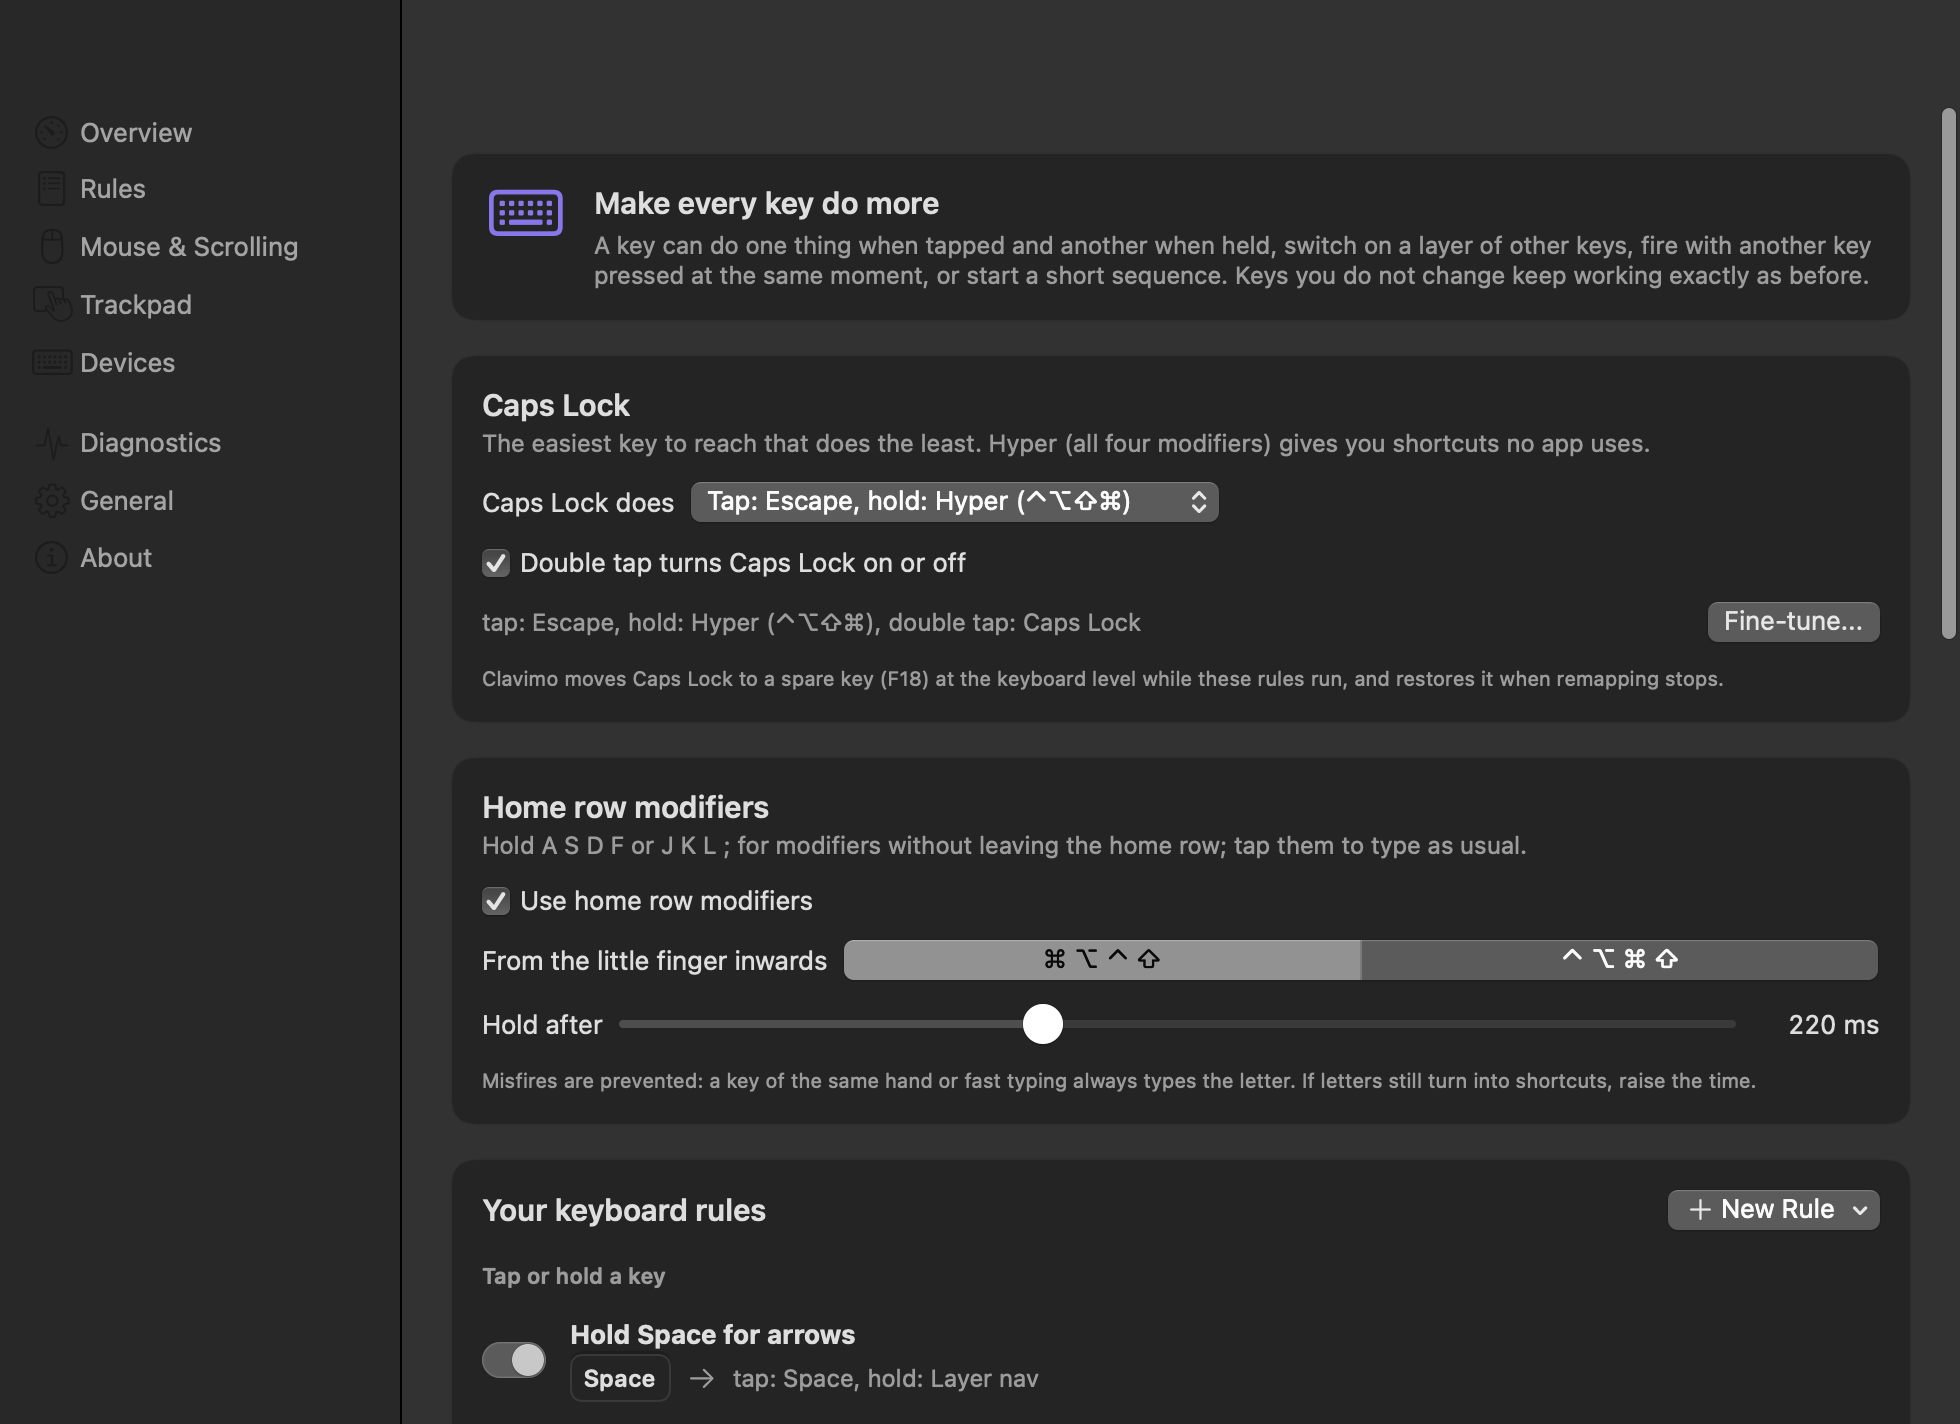
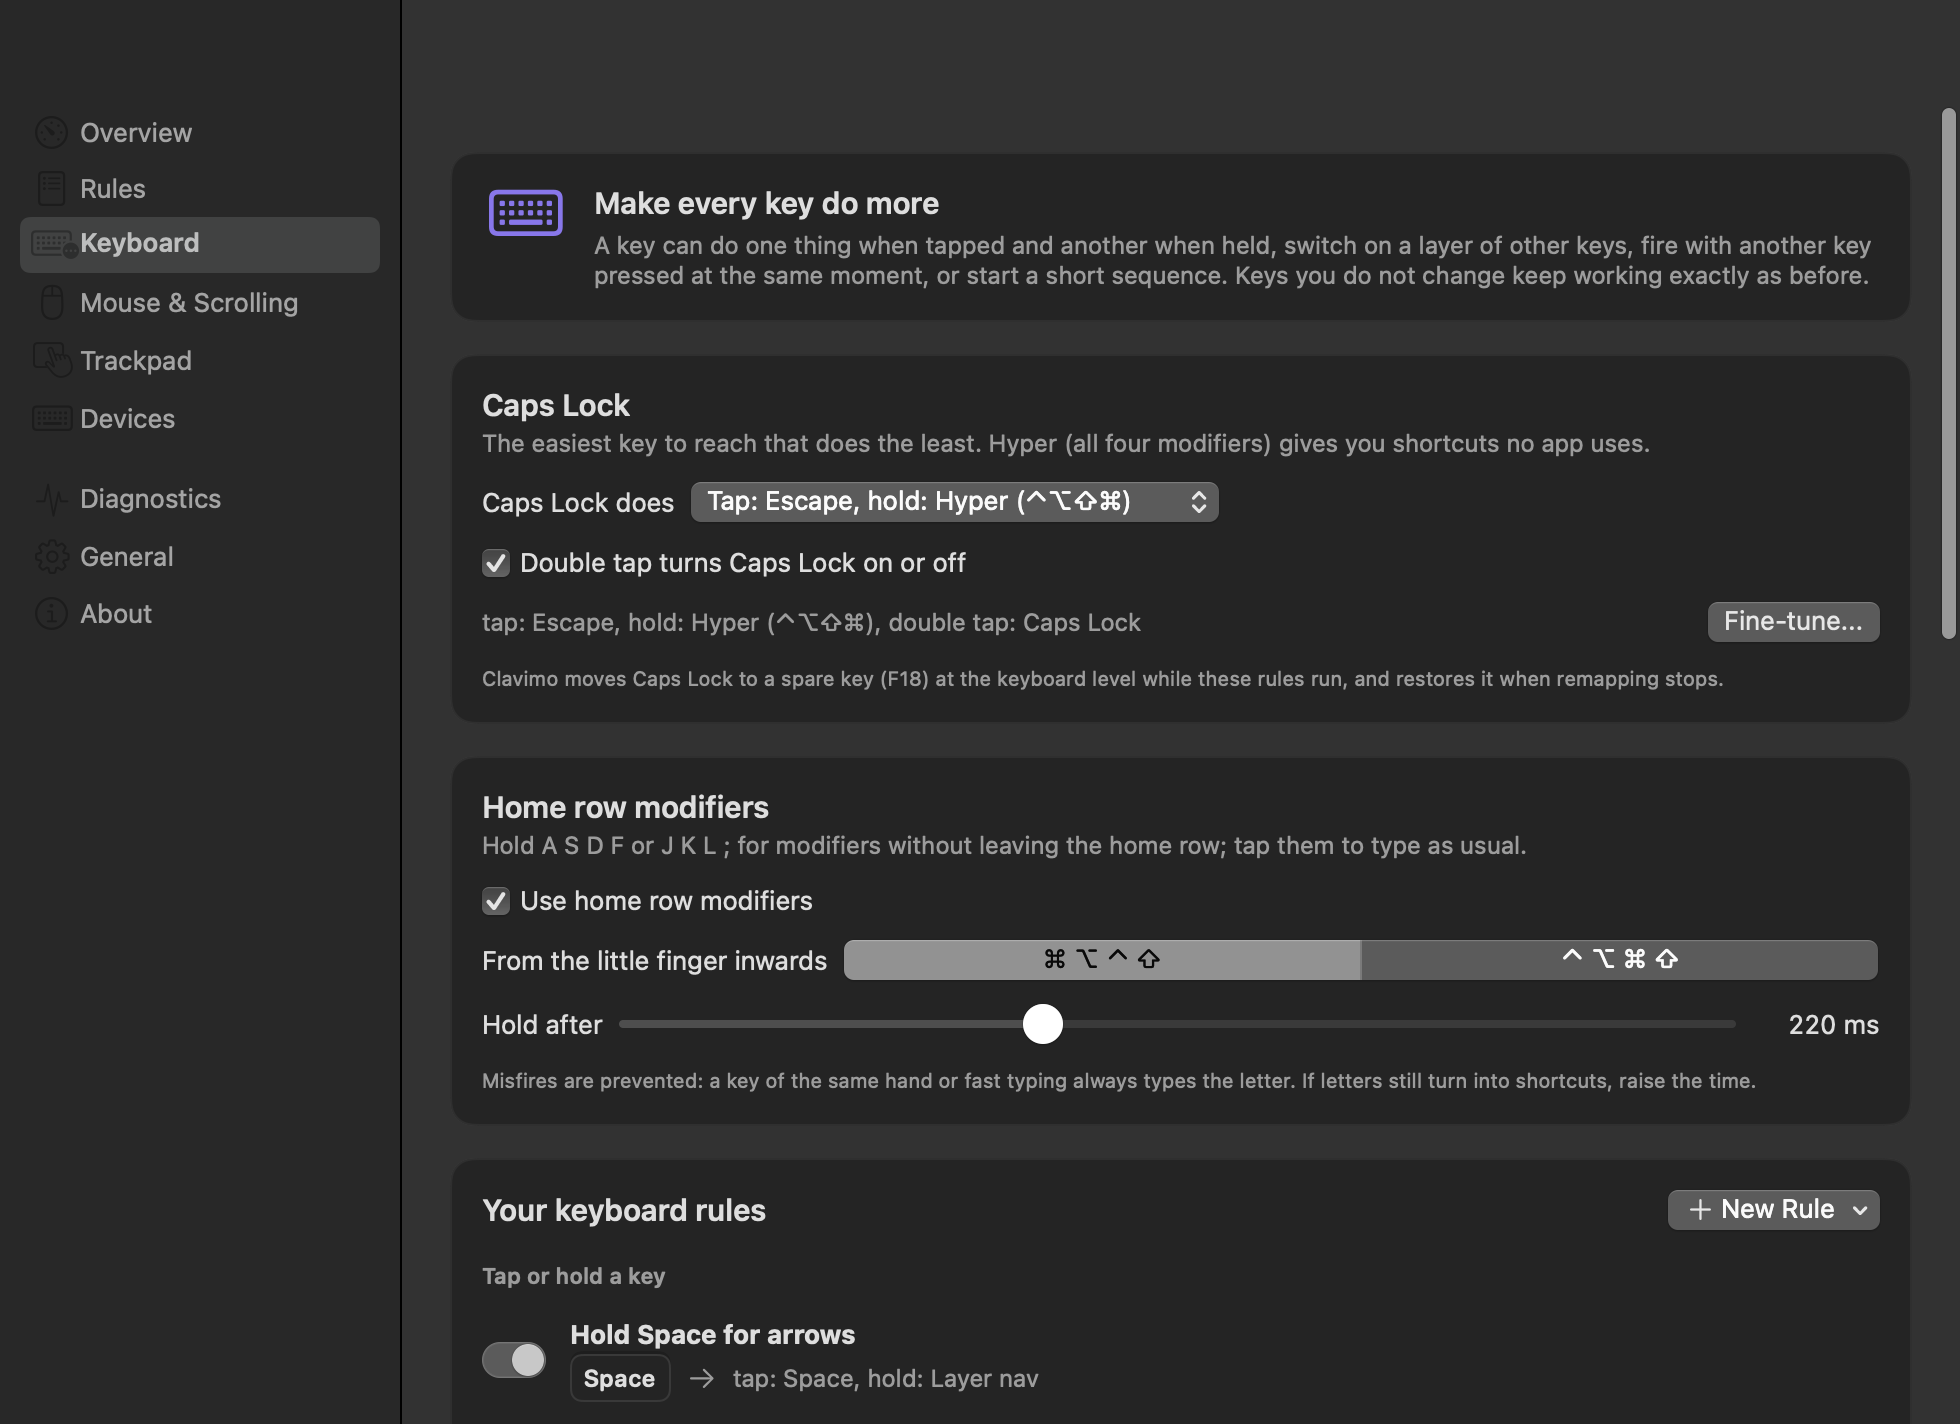
fix(ui): list the Keyboard pane in the settings sidebar
The sidebar lists its panes explicitly, so the new Keyboard pane could
not be opened. The Trackpad pane now also mentions two-finger turns and
zones, and the sample screenshots include a knob rule.

Changed region(s): [[0.0, 0.1545, 0.2179, 0.2163], [0.0311, 0.2472, 0.1245, 0.4017]]

diff --git a/Packages/ClavimoApp/Sources/ClavimoApp/Settings/TrackpadPane.swift b/Packages/ClavimoApp/Sources/ClavimoApp/Settings/TrackpadPane.swift
@@ -67,7 +67,7 @@ struct TrackpadPane: View {
                         Text(String(localized: "Trackpad gestures")).font(.title3.weight(.semibold))
                         StatusChip(text: statusText, kind: statusKind)
                     }
-                    Text(String(localized: "Taps, swipes and clicks with several fingers can run actions, also together with a held key. Clavimo reads finger positions through an unofficial macOS interface, only while a trackpad rule is on or this page is open, and never stores them. If a macOS update changes that interface, gestures turn themselves off and everything else keeps working."))
+                    Text(String(localized: "Taps, swipes, two-finger turns and clicks with several fingers can run actions, on the whole trackpad or one half, also together with a held key. Clavimo reads finger positions through an unofficial macOS interface, only while a trackpad rule is on or this page is open, and never stores them. If a macOS update changes that interface, gestures turn themselves off and everything else keeps working."))
                         .font(.callout).foregroundStyle(.secondary).fixedSize(horizontal: false, vertical: true)
                 }
             }

diff --git a/Packages/ClavimoApp/Sources/ClavimoApp/App/ScreenshotRenderer.swift b/Packages/ClavimoApp/Sources/ClavimoApp/App/ScreenshotRenderer.swift
@@ -124,11 +124,19 @@ enum ScreenshotRenderer {
         corner.action = .shortcut
         corner.shortcutKey = 0x0D
         corner.shortcutModifiers = [.command]
+        var knob = RuleDraft()
+        knob.kind = .trackpadGesture
+        knob.gesture = .rotate
+        knob.fingers = 2
+        knob.rotation = .clockwise
+        knob.zone = .left
+        knob.action = .media
+        knob.mediaKey = .volumeUp
         var trackpadScroll = RuleDraft()
         trackpadScroll.kind = .trackpadScroll
         trackpadScroll.trackpadScroll = TrackpadScrollSettings(speed: 1.25, momentum: true)
 
-        var rules = [swap, fnLeft, fnRight, mission, chord, tap, back, corner].enumerated().map { index, draft in
+        var rules = [swap, fnLeft, fnRight, mission, chord, tap, back, knob, corner].enumerated().map { index, draft in
             draft.makeRule(id: "sample-\(index)", order: index)
         }
         var caps = KeyboardRuleDraft()

diff --git a/Packages/ClavimoApp/Sources/ClavimoApp/Settings/SettingsView.swift b/Packages/ClavimoApp/Sources/ClavimoApp/Settings/SettingsView.swift
@@ -68,7 +68,7 @@ struct SettingsView: View {
         NavigationSplitView {
             List(selection: $navigation.pane) {
                 Section {
-                    ForEach([SettingsNavigation.Pane.overview, .rules, .mouse, .trackpad, .devices]) { pane in
+                    ForEach([SettingsNavigation.Pane.overview, .rules, .keyboard, .mouse, .trackpad, .devices]) { pane in
                         Label(pane.title, systemImage: pane.symbol).tag(pane)
                     }
                 }
